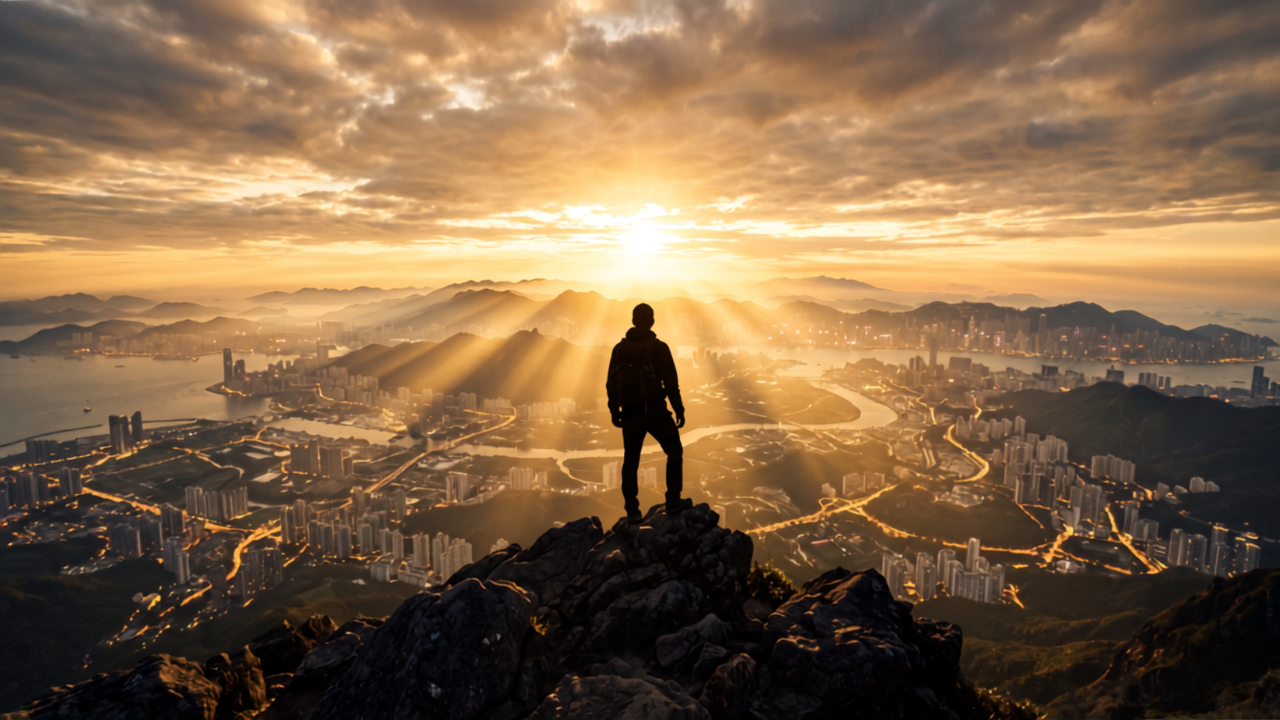
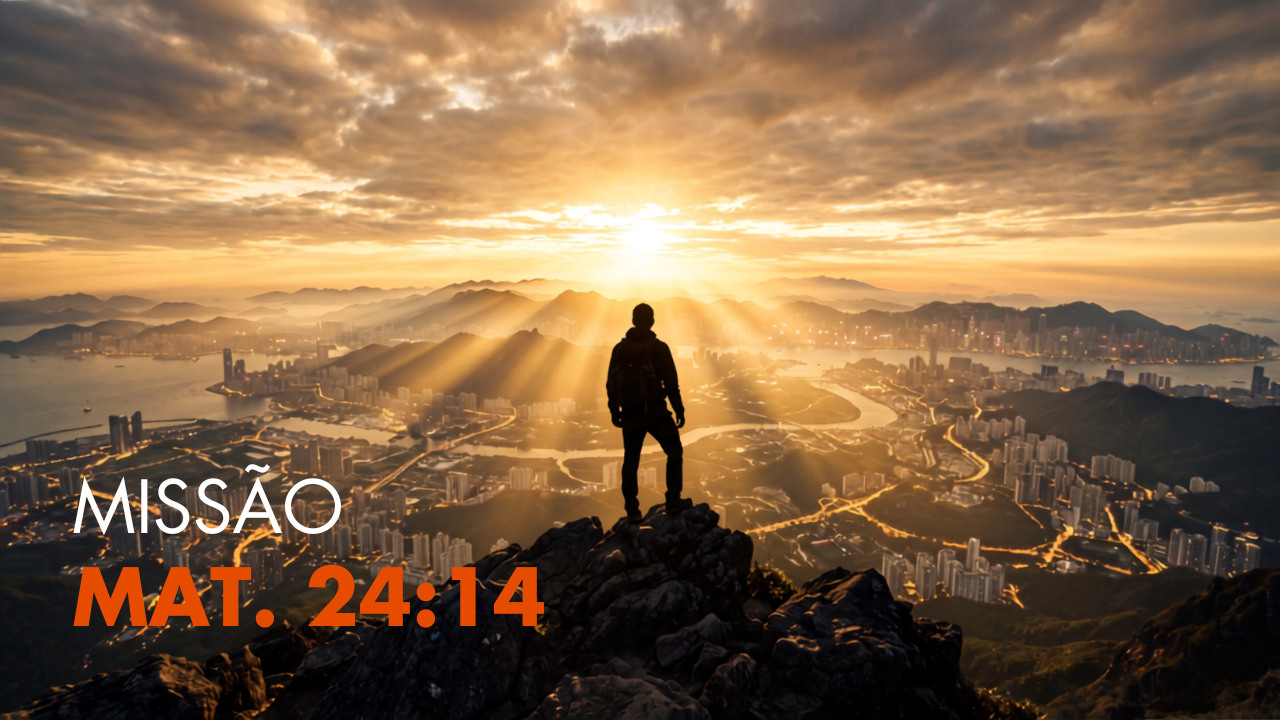
Refatorar Landing Page para estilo preto/verde profissional do Satori Graphics e acoplar mockups de desktop/celular reais

Changed region(s): [[0.0625, 0.6417, 0.2812, 0.8861], [0.2188, 0.7639, 0.4375, 0.8861]]

diff --git a/src/index.css b/src/index.css
@@ -11,40 +11,40 @@
   text-rendering: optimizeLegibility;
   -webkit-font-smoothing: antialiased;
 
-  /* Cores base com paleta warm off-white de alto contraste */
+  /* Cores base com paleta cinza minimalista e verde de alto contraste */
   --white:          #FFFFFF;
-  --bg-app:         #FDF8F5; /* Warm off-white */
+  --bg-app:         #FAFAFA; /* Cinza gelo limpo */
   --glass-bg:       rgba(255, 255, 255, 0.72);
   --glass-border:   rgba(255, 255, 255, 0.85);
-  --glass-shadow:   0 8px 32px rgba(249, 115, 22, 0.05);
+  --glass-shadow:   0 8px 32px rgba(16, 185, 129, 0.04);
 
   /* Texto */
-  --text-primary:   #1E293B; /* Slate 800 - muito legível */
-  --text-secondary: #475569; /* Slate 600 */
-  --text-muted:     #94A3B8; /* Slate 400 */
+  --text-primary:   #09090B; /* Zinco 950 - alto contraste */
+  --text-secondary: #4b5563; /* Cinza 600 */
+  --text-muted:     #9ca3af; /* Cinza 400 */
 
-  /* 30% — Laranja quentes e contrastantes */
-  --orange:         #F97316;
-  --orange-dark:    #EA580C;
-  --orange-light:   #FFF7ED;
-  --orange-mid:     #FFEDD5;
-  --orange-glow:    rgba(249, 115, 22, 0.25);
+  /* Destaques acionáveis em Verde Menta/Esmeralda */
+  --orange:         #10B981;
+  --orange-dark:    #059669;
+  --orange-light:   #ECFDF5;
+  --orange-mid:     #D1FAE5;
+  --orange-glow:    rgba(16, 185, 129, 0.20);
 
-  /* 10% — Ardósia */
-  --slate:          #334155;
-  --slate-light:    #F8FAFC;
-  --slate-border:   #E2E8F0;
+  /* Ardósia / Elementos secundários */
+  --slate:          #1f2937;
+  --slate-light:    #f3f4f6;
+  --slate-border:   #e5e7eb;
 
   /* Gradientes */
-  --grad-orange:    linear-gradient(135deg, #F97316 0%, #FB923C 100%);
-  --grad-slate:     linear-gradient(135deg, #1E293B 0%, #334155 100%);
-  --grad-hero-biblia: linear-gradient(135deg, #0F172A 0%, #1E293B 100%);
+  --grad-orange:    linear-gradient(135deg, #10B981 0%, #059669 100%);
+  --grad-slate:     linear-gradient(135deg, #111827 0%, #1F2937 100%);
+  --grad-hero-biblia: linear-gradient(135deg, #061F14 0%, #0B3F29 100%);
 
   /* Sombras */
   --shadow-sm:      0 1px 2px rgba(0,0,0,0.05);
-  --shadow-md:      0 4px 20px rgba(249, 115, 22, 0.03), 0 2px 8px rgba(0,0,0,0.03);
-  --shadow-lg:      0 20px 40px rgba(0,0,0,0.06);
-  --shadow-orange:  0 8px 24px rgba(249, 115, 22, 0.20);
+  --shadow-md:      0 4px 20px rgba(16, 185, 129, 0.02), 0 2px 8px rgba(0,0,0,0.03);
+  --shadow-lg:      0 20px 40px rgba(0,0,0,0.04);
+  --shadow-orange:  0 8px 24px rgba(16, 185, 129, 0.15);
 
   color-scheme: light;
 }
@@ -1039,30 +1039,30 @@ p  { font-size: 0.95rem; color: var(--text-secondary); line-height: 1.7; }
    DARK MODE (TEMA ESCURO - MIDNIGHT AMOLED)
 ═══════════════════════════════════════════════════ */
 body.dark-mode, .app-container.dark-mode, :root.dark-mode {
-  --bg-app:         #030712 !important; /* Midnight AMOLED */
-  --white:          #111827 !important; /* Dark Slate para cartões que usavam branco */
-  --glass-bg:       rgba(17, 24, 39, 0.85);
-  --glass-border:   rgba(255, 255, 255, 0.06);
-  --glass-shadow:   0 12px 40px rgba(0, 0, 0, 0.55);
+  --bg-app:         #09090b !important; /* Midnight AMOLED zinc-950 */
+  --white:          #18181b !important; /* Zinc 900 */
+  --glass-bg:       rgba(24, 24, 27, 0.85);
+  --glass-border:   rgba(255, 255, 255, 0.05);
+  --glass-shadow:   0 12px 40px rgba(0, 0, 0, 0.6);
 
   /* Texto */
-  --text-primary:   #F9FAFB !important; /* Branco cristalino */
-  --text-secondary: #E5E7EB !important; /* Cinza suave */
-  --text-muted:     #9CA3AF !important; /* Cinza médio */
+  --text-primary:   #fafafa !important; /* Zinc 50 */
+  --text-secondary: #d4d4d8 !important; /* Zinc 300 */
+  --text-muted:     #71717a !important; /* Zinc 500 */
 
-  /* Laranja com glow neon */
-  --orange:         #FF822E;
-  --orange-light:   rgba(255, 130, 46, 0.1);
-  --orange-mid:     rgba(255, 130, 46, 0.22);
-  --orange-glow:    rgba(255, 130, 46, 0.5);
+  /* Verde esmeralda com glow neon */
+  --orange:         #10B981;
+  --orange-light:   rgba(16, 185, 129, 0.08);
+  --orange-mid:     rgba(16, 185, 129, 0.22);
+  --orange-glow:    rgba(16, 185, 129, 0.45);
 
   /* Ardósia (10%) no Dark Mode */
-  --slate:          #CBD5E1;
-  --slate-light:    rgba(255, 255, 255, 0.05);
-  --slate-border:   rgba(255, 255, 255, 0.12);
+  --slate:          #e4e4e7;
+  --slate-light:    rgba(255, 255, 255, 0.04);
+  --slate-border:   rgba(255, 255, 255, 0.08);
 
-  background-color: #030712 !important;
-  color: #F9FAFB !important;
+  background-color: #09090b !important;
+  color: #fafafa !important;
   color-scheme: dark;
 }
 
@@ -1360,16 +1360,16 @@ body.dark-mode .login-card {
   padding: 20px 24px;
   position: sticky;
   top: 0;
-  background: rgba(253, 248, 245, 0.85);
+  background: rgba(250, 250, 250, 0.85);
   backdrop-filter: blur(20px);
   -webkit-backdrop-filter: blur(20px);
   z-index: 1000;
-  border-bottom: 1px solid rgba(249, 115, 22, 0.08);
+  border-bottom: 1px solid rgba(16, 185, 129, 0.08);
   transition: all 0.3s;
 }
 
 body.dark-mode .lp-header {
-  background: rgba(3, 7, 18, 0.85) !important;
+  background: rgba(9, 9, 11, 0.85) !important;
   border-bottom: 1px solid rgba(255, 255, 255, 0.05) !important;
 }
 

diff --git a/src/App.jsx b/src/App.jsx
@@ -696,47 +696,13 @@ function App() {
             Começar Gratuitamente 🚀
           </button>
 
-          {/* Mockup Interativo em CSS */}
-          <div className="lp-mockup-wrapper">
-            <div className="lp-phone-frame">
-              <div className="lp-phone-notch"></div>
-              <div className="lp-phone-screen">
-                {/* Cabeçalho do App Simulado */}
-                <div style={{ display: 'flex', justifyContent: 'space-between', padding: '24px 16px 8px', borderBottom: '1px solid rgba(249, 115, 22, 0.08)' }}>
-                  <img src="/LOGOMARCA.png" alt="Logo" style={{ height: '18px' }} />
-                  <span style={{ fontSize: '0.65rem', fontWeight: 'bold', color: 'var(--orange)' }}>Dia 1</span>
-                </div>
-                {/* Conteúdo Devocional Simulado */}
-                <div style={{ padding: '16px', display: 'flex', flexDirection: 'column', gap: '10px', overflowY: 'hidden', height: '100%' }}>
-                  <div style={{ background: 'var(--orange-light)', padding: '12px', borderRadius: '12px', border: '1px solid rgba(249, 115, 22, 0.15)' }}>
-                    <div style={{ fontSize: '0.65rem', fontWeight: 'bold', textTransform: 'uppercase', color: 'var(--orange)' }}>Matriz Diária</div>
-                    <div style={{ fontSize: '0.85rem', fontWeight: 'bold', marginTop: '4px', lineHeight: '1.2' }}>"Não andeis ansiosos..."</div>
-                    <div style={{ fontSize: '0.62rem', color: 'var(--text-secondary)', marginTop: '4px', fontStyle: 'italic' }}>Filipenses 4:6</div>
-                  </div>
-                  <div style={{ background: 'rgba(255, 255, 255, 0.5)', padding: '12px', borderRadius: '12px', border: '1px solid var(--slate-border)' }}>
-                    <div style={{ fontSize: '0.7rem', fontWeight: 'bold' }}>🎧 Meditação Guiada</div>
-                    <div style={{ width: '100%', height: '4px', background: 'var(--slate-border)', borderRadius: '2px', marginTop: '10px', position: 'relative' }}>
-                      <div style={{ width: '45%', height: '100%', background: 'var(--orange)', borderRadius: '2px' }}></div>
-                    </div>
-                    <div style={{ display: 'flex', justifyContent: 'space-between', fontSize: '0.55rem', color: 'var(--text-secondary)', marginTop: '4px' }}>
-                      <span>01:45</span>
-                      <span>03:00</span>
-                    </div>
-                  </div>
-                  {/* Círculo de Respiração Guiada */}
-                  <div style={{ display: 'flex', flexDirection: 'column', alignItems: 'center', margin: '10px 0' }}>
-                    <div style={{
-                      width: '60px', height: '60px', borderRadius: '50%', 
-                      border: '3px solid var(--orange)', background: 'var(--orange-light)',
-                      display: 'flex', alignItems: 'center', justifyContent: 'center',
-                      animation: 'float 3s ease-in-out infinite'
-                    }}>
-                      🌀
-                    </div>
-                    <span style={{ fontSize: '0.6rem', fontWeight: 'bold', marginTop: '6px' }}>Inspirar...</span>
-                  </div>
-                </div>
-              </div>
+          {/* Mockups de Demonstração Reais (Desktop & Mobile) */}
+          <div style={{ display: 'flex', flexDirection: 'column', alignItems: 'center', gap: '24px', width: '100%', margin: '40px 0 20px' }}>
+            <div style={{ position: 'relative', width: '100%', maxWidth: '440px', borderRadius: '16px', overflow: 'hidden', boxShadow: '0 20px 40px rgba(0,0,0,0.12)' }}>
+              <img src="/app_desktop_mockup.png" alt="1Convite Web Dashboard" style={{ width: '100%', display: 'block', borderRadius: '16px' }} />
+            </div>
+            <div style={{ position: 'relative', width: '60%', maxWidth: '240px', borderRadius: '24px', overflow: 'hidden', boxShadow: '0 20px 40px rgba(0,0,0,0.15)', marginTop: '-60px', border: '6px solid var(--slate)', zIndex: 5 }}>
+              <img src="/app_mobile_mockup.png" alt="1Convite App Mobile" style={{ width: '100%', display: 'block', borderRadius: '18px' }} />
             </div>
           </div>
         </section>